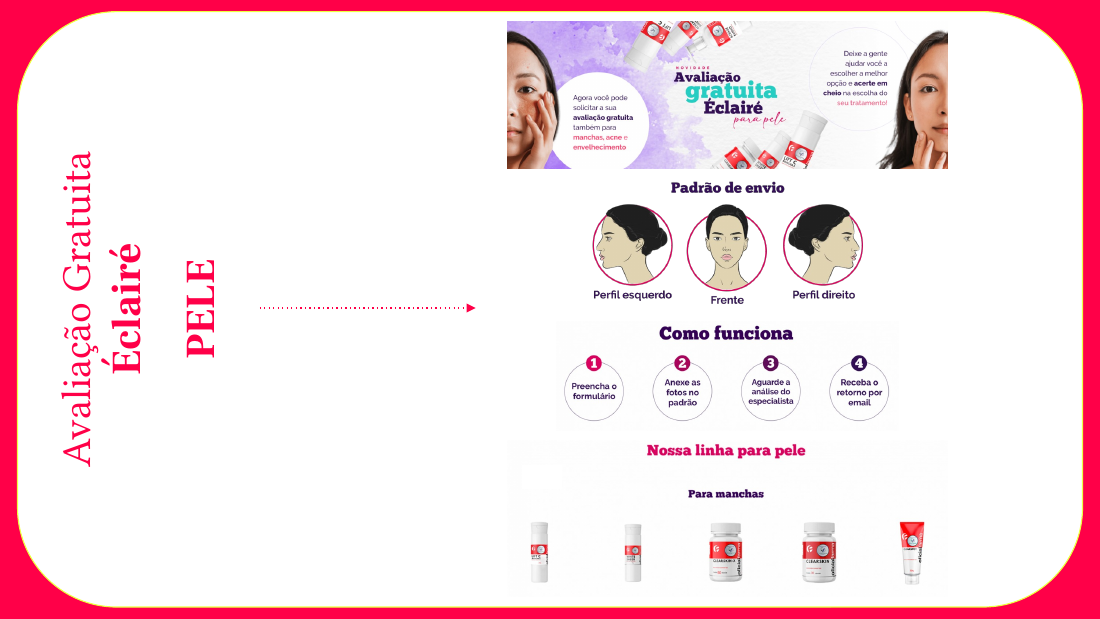
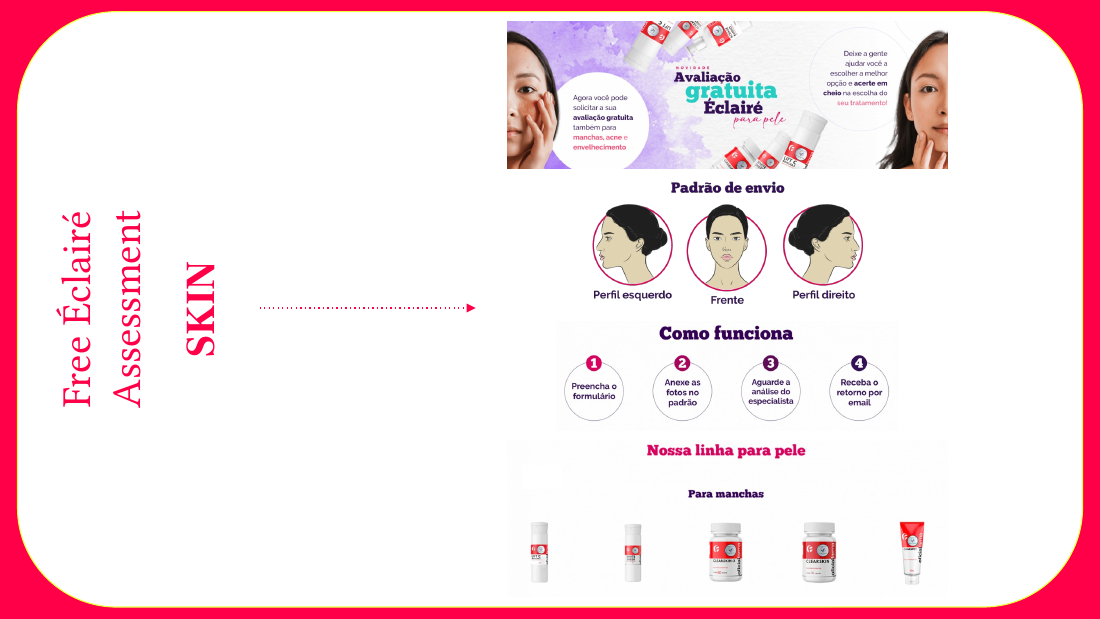
Source documents translated in place: slide and sheet text in English, layout untouched

Changed region(s): [[0.0309, 0.2456, 0.2164, 0.7674]]

diff --git a/healthcare.html b/healthcare.html
@@ -98,7 +98,7 @@
         returns by email. It delivered <b>2,827 assessments against a forecast of 1,874</b>.</p>
         <figure class="srcdoc">
           <a href="img/eclaire/src-funnel.png"><img src="img/eclaire/src-funnel.png" alt="Original client slide showing the assessment submission protocol"></a>
-          <figcaption>Source document<span class="fn">October Monthly Review, the assessment protocol as presented to the client</span></figcaption>
+          <figcaption>Source document<span class="fn">October Monthly Review, the assessment protocol as presented to the client. The embedded landing page capture is a flattened screenshot and remains in Portuguese</span></figcaption>
         </figure>
       </div>
     </div>
@@ -110,8 +110,8 @@
         against that forecast the following month. The assessment programme came in <b>51% above
         forecast</b> on volume and 58% above on the revenue it produced.</p>
         <figure class="srcdoc">
-          <a href="img/eclaire/src-actionplan.png"><img src="img/eclaire/src-actionplan.png" alt="Original client slide, monthly action plan with forecast and delivered columns"></a>
-          <figcaption>Source document<span class="fn">October Monthly Review, action plan, forecast and delivered side by side</span></figcaption>
+          <a href="img/eclaire/src-leads.png"><img src="img/eclaire/src-leads.png" alt="Client slide reporting 2,645 leads from the capture campaign"></a>
+          <figcaption>Source document<span class="fn">October Monthly Review, the capture campaign reported at 2,645 leads</span></figcaption>
         </figure>
       </div>
     </div>
@@ -246,9 +246,10 @@
     </div>
 
     <div class="prov">
-      <b>On the exhibits.</b> Each one is rebuilt in English from the client document shown beside it. The
-      originals are in Portuguese and the figures are unchanged. Amounts originally in Brazilian reais are
-      converted at R$5.40 to the US dollar, with both shown.
+      <b>On the exhibits.</b> Each one is rebuilt in English from the client document shown beside it. Those
+      source documents are the originals with their wording translated and nothing else altered, so the
+      layout, figures and formatting are exactly as the client received them. Amounts stay in Brazilian reais
+      in the sources, and are converted at R$5.40 to the US dollar in the exhibits.
     </div>
   </div>
 </section>
